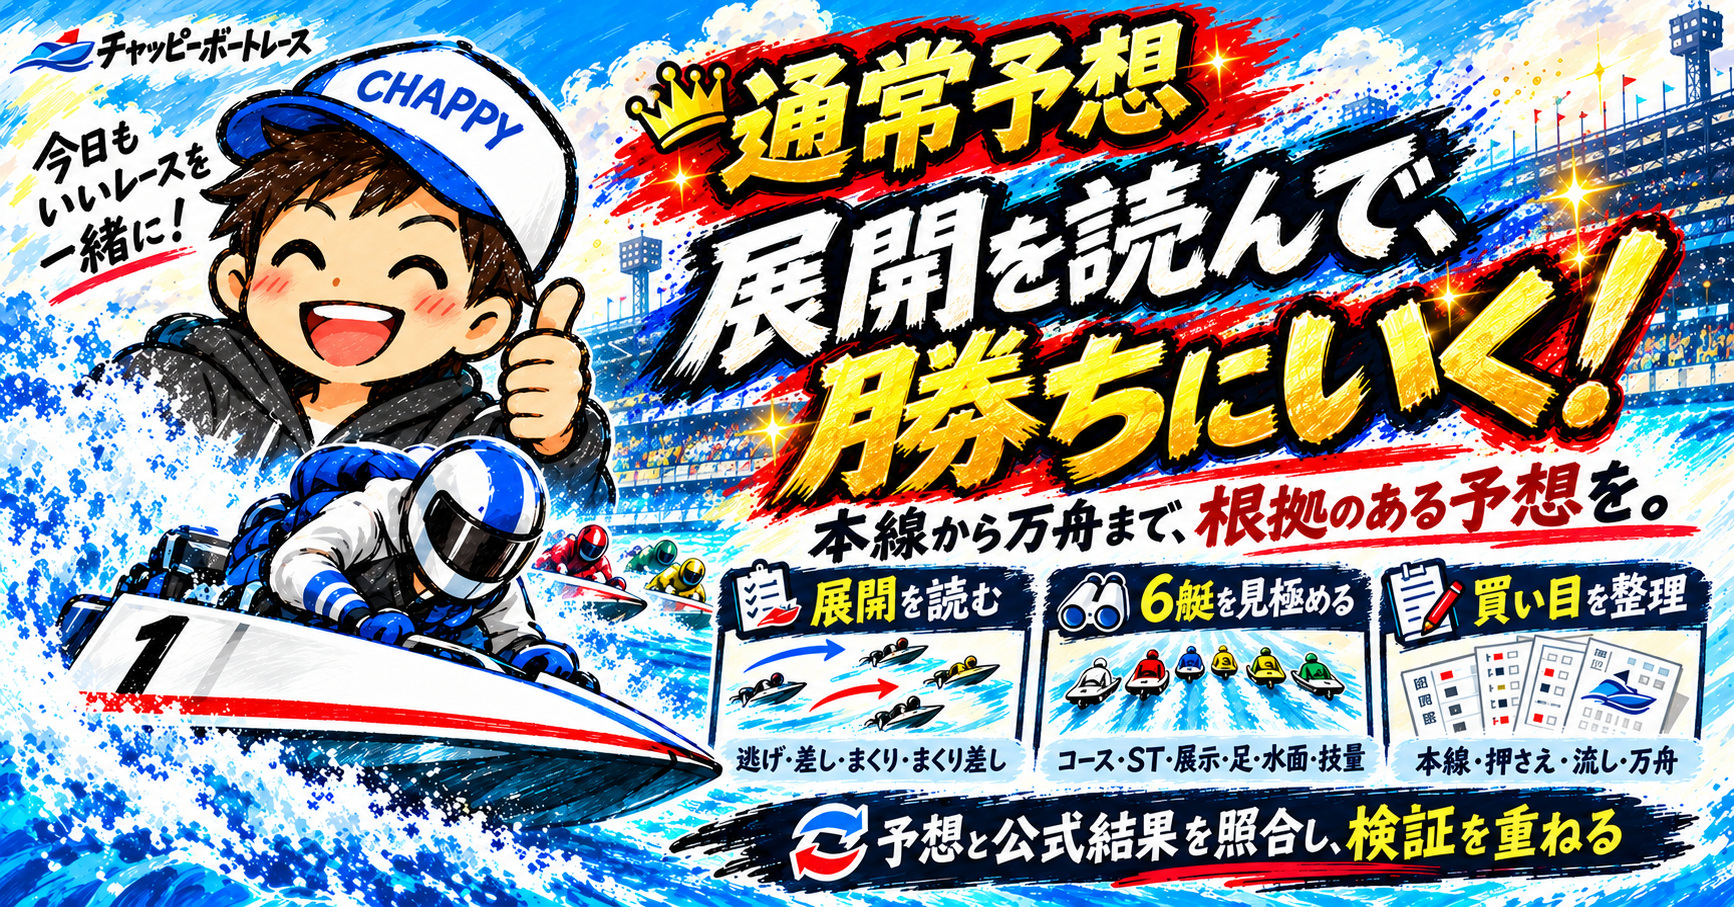
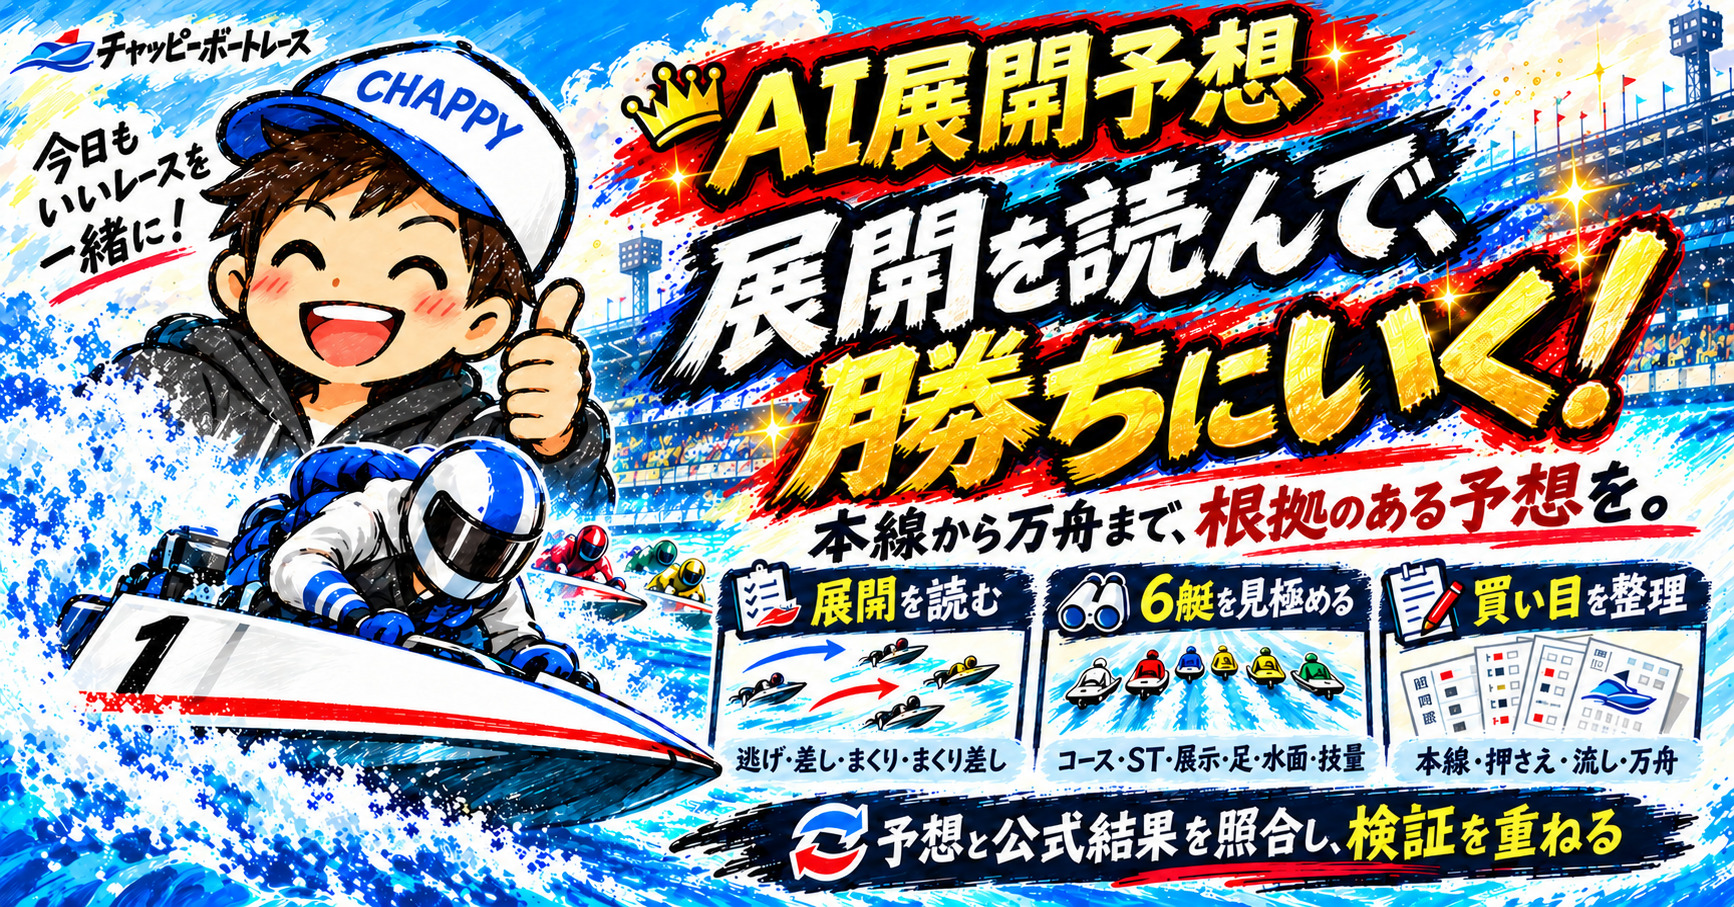
Clarify note previews and deduplicate paid ticket presentation

diff --git a/scripts/note-readable-article.js b/scripts/note-readable-article.js
@@ -1,0 +1,104 @@
+'use strict';
+
+// Presentation only. The immutable original is audited before this adapter.
+// No prediction engine, result, or odds-based selection is used here.
+const NOTICE = '※舟券の購入は自己責任で、無理のない範囲でお楽しみください。';
+const ticketOf = row => typeof row === 'string' ? row : row.ticket;
+const unique = rows => [...new Set((rows || []).map(ticketOf))];
+const valid = t => /^[1-6]-[1-6]-[1-6]$/.test(t) && new Set(t.split('-')).size === 3;
+const mentions = text => [...String(text).normalize('NFKC').matchAll(/(?<![0-9])([1-6]+(?:・[1-6]+)*|全|ALL)\s*[-→－–―]\s*([1-6]+(?:・[1-6]+)*|全|ALL)\s*[-→－–―]\s*([1-6]+(?:・[1-6]+)*|全|ALL)(?![0-9])/gi)];
+const expand = m => {
+  const axes = m.slice(1, 4).map(a => [...new Set(a.replace(/全|ALL/gi, '123456').replaceAll('・', ''))]);
+  return axes[0].flatMap(a => axes[1].flatMap(b => axes[2].map(c => `${a}-${b}-${c}`).filter(valid)));
+};
+const ticketsIn = text => mentions(text).flatMap(expand);
+const sameSet = (a, b) => JSON.stringify([...new Set(a)].sort()) === JSON.stringify([...new Set(b)].sort());
+
+function formations(tickets) {
+  // Group only equal first/second axes; the third axis cannot invent a ticket.
+  const groups = new Map();
+  for (const ticket of tickets) {
+    const [a,b,c] = ticket.split('-'), key = `${a}-${b}`;
+    if (!groups.has(key)) groups.set(key, []);
+    groups.get(key).push(c);
+  }
+  return [...groups].map(([key, thirds]) => `・${key}-${thirds.join('')}`).join('\n');
+}
+
+function readableArticle(article, bundle) {
+  const independent = bundle.version === 'independent-monitor-note-v1';
+  const prediction = bundle.record.prediction;
+  const central = unique(bundle.baselinePracticalTickets);
+  const seen = new Set(central);
+  const groups = [{ heading: '中心の買い目', tickets: central,
+    description: 'まず確認する買い目です。追加候補を買わず、この範囲だけで選べます。' }];
+  const reasons = [];
+  let reference = '';
+  let freeBase = article.freeText;
+  if (independent) {
+    const match = article.paidText.match(/^買い目\n([\s\S]*?)\n計\s+(\d+)点$/m);
+    if (!match || !sameSet(ticketsIn(match[1]), central)) throw new Error('readable_monitor_tickets_mismatch');
+    reasons.push(article.paidText.slice(0, match.index).trim());
+    reference = article.paidText.slice(match.index + match[0].length).trim();
+  } else {
+    reasons.push(String(prediction.raceFlow?.summary || article.rangeSummary || '').trim());
+    const pools = [
+      ['相手を広げるなら', prediction.mainSheet?.tickets, prediction.mainSheet?.reason],
+      ['相手を広げるなら', prediction.mainSheet?.coverTickets, ''],
+      ['別の展開を考えるなら', prediction.mainSheet?.flowTickets, ''],
+      ['高配当を狙うなら', prediction.manshuSheet?.tickets, prediction.manshuSheet?.reason]
+    ];
+    for (const [index, [heading, rows, reason]] of pools.entries()) {
+      const savedReason = String(article.allRangeGroups?.[index]?.reason || reason || rows?.[0]?.scenarioSummary || rows?.[0]?.comment || '').trim();
+      if (savedReason) reasons.push(`${heading}\n${savedReason}`);
+      const tickets = unique(rows).filter(t => !seen.has(t));
+      tickets.forEach(t => seen.add(t));
+      if (!tickets.length) continue;
+      const existing = groups.find(g => g.heading === heading);
+      if (existing) existing.tickets.push(...tickets);
+      else groups.push({ heading, tickets, description: 'ここからは追加候補です。中心の買い目との重複はありません。無料部分の展開説明を確認して、必要な場合だけ追加してください。' });
+    }
+    const practical = article.paidText.match(/^🔥 実戦厳選\n([\s\S]*?)\n計\s+(\d+)点$/m);
+    if (!practical) throw new Error('readable_practical_section_missing');
+    reference = article.paidText.slice(practical.index + practical[0].length).trim();
+    freeBase = freeBase.split('\n\n').filter(p =>
+      !/^展開の焦点：/.test(p) && !/^本命・押さえ・万舟を、/.test(p) && !/^実戦厳選は\d+点です。/.test(p)
+    ).join('\n\n');
+  }
+  // Reference forecasts retain their separate accounting, including overlaps.
+  // They are not recommendations to add the same ticket twice.
+  const referenceTickets = [...new Set(ticketsIn(reference))];
+  const remainingReference = referenceTickets.filter(t => !seen.has(t));
+  if (remainingReference.length) groups.push({ heading: '別会計の参考予想', tickets: remainingReference,
+    description: '保存された参考予想のうち、上の買い目と重複しない分です。中心の買い目の成績とは別集計です。' });
+  const referenceProse = reference.split('\n').filter(line => !mentions(line).length && !/^(計 |内訳|参考.*点|本命とは別会計)/.test(line)).join('\n').trim();
+  if (referenceProse) reasons.push(referenceProse);
+  // A saved rationale can include the full ticket. Its ticket remains in the
+  // paid list; omit that sentence from the preview instead of exposing it.
+  const explanation = [...new Set(reasons.filter(Boolean).map(reason => reason
+    .split(/(?<=[。！？])|\n/).filter(sentence => !mentions(sentence).length).join('\n').trim()).filter(Boolean))].join('\n\n');
+  const total = groups.reduce((n,g) => n + g.tickets.length, 0);
+  const freeText = [freeBase, '展開の考え方', explanation,
+    `有料部分の内容\n中心の買い目 ${central.length}点${total > central.length ? `／追加・参考 ${total - central.length}点` : ''}。重複を除いた全体は${total}点です。`,
+    '中心の買い目から順に掲載します。追加候補はすべて買う前提ではありません。的中報告の対象は中心の買い目です。'
+  ].filter(Boolean).join('\n\n');
+  let cumulative = 0;
+  const paidText = groups.map(group => {
+    cumulative += group.tickets.length;
+    return [group.heading, group.description, formations(group.tickets),
+      `${group === groups[0] ? '中心' : '追加'} ${group.tickets.length}点｜ここまで重複なし${cumulative}点`,
+      `1点100円の場合：この欄${group.tickets.length * 100}円`].join('\n\n');
+  }).join('\n\n');
+  const rendered = ticketsIn(paidText);
+  const expected = [...central, ...(!independent ? unique([
+    ...(prediction.mainSheet?.tickets || []), ...(prediction.mainSheet?.coverTickets || []),
+    ...(prediction.mainSheet?.flowTickets || []), ...(prediction.manshuSheet?.tickets || [])]) : []), ...referenceTickets];
+  if (rendered.some(t => !valid(t)) || new Set(rendered).size !== rendered.length || !sameSet(rendered, expected)) {
+    throw new Error('readable_rendered_tickets_mismatch');
+  }
+  if (mentions(freeText).length) throw new Error('readable_free_ticket_leak');
+  if (freeText.includes(article.paywallMarker) || paidText.includes(article.paywallMarker)) throw new Error('readable_paywall_invalid');
+  const fullText = [freeText, article.paywallMarker, paidText, NOTICE, article.tags.join(' ')].filter(Boolean).join('\n\n');
+  return { ...article, presentationVersion: 'readable-v1', freeText, paidText, fullText };
+}
+module.exports = { readableArticle, ticketsIn };

diff --git a/scripts/note-readable-article.test.js b/scripts/note-readable-article.test.js
@@ -1,0 +1,37 @@
+'use strict';
+const test = require('node:test');
+const assert = require('node:assert/strict');
+const { readableArticle, ticketsIn } = require('./note-readable-article');
+const { fixture } = require('./note-independent-monitor-fixture');
+test('independent original remains immutable, reasons move before the paywall', () => {
+  for (const kind of ['escape', 'manshu']) {
+    const b = fixture(); b.monitor.kind = kind;
+    const before = JSON.stringify(b), a = readableArticle(b.article, b);
+    assert.equal(JSON.stringify(b), before);
+    assert.ok(a.freeText.includes('元の理由を短縮・差し替えしない。'));
+    assert.deepEqual(ticketsIn(a.freeText), []);
+    assert.deepEqual(ticketsIn(a.paidText), ['1-2-3', '1-2-4']);
+    assert.ok(a.freeText.includes('中心の買い目 2点'));
+    assert.equal(a.fullText.split(a.paywallMarker).length, 2);
+  }
+});
+test('overlapping candidate pools and reference tickets are each shown once; none are invented or lost', () => {
+  const b = fixture(); b.version = 'note-draft-bundle-v1';
+  b.record.prediction.mainSheet = { tickets: ['1-2-3', '1-3-2'], coverTickets: ['1-3-2', '1-4-2'], flowTickets: ['2-1-3'] };
+  b.record.prediction.manshuSheet = { tickets: ['2-1-3', '4-1-2'] };
+  b.record.prediction.raceFlow = { summary: '1号艇の逃げを軸に、差しが届く展開も考えます。' };
+  b.article.paidText = '🔥 実戦厳選\n\n・1-2-34\n\n計 2点\n\n本命とは別会計の参考予想\n・4-1-2\n・5-1-2';
+  const before = JSON.stringify(b), a = readableArticle(b.article, b);
+  const shown = ticketsIn(a.paidText);
+  assert.deepEqual(shown, ['1-2-3','1-2-4','1-3-2','1-4-2','2-1-3','4-1-2','5-1-2']);
+  assert.equal(new Set(shown).size, shown.length);
+  assert.equal(JSON.stringify(b), before);
+  assert.ok(a.paidText.indexOf('中心の買い目') < a.paidText.indexOf('相手を広げるなら'));
+  assert.ok(a.freeText.includes('全体は7点'));
+});
+test('a concrete ticket in an explanation cannot leak into the free preview', () => {
+  const b = fixture(); b.article.paidText = '理由 1-2-3\n\n' + b.article.paidText;
+  const a = readableArticle(b.article, b);
+  assert.deepEqual(ticketsIn(a.freeText), []);
+  assert.deepEqual(ticketsIn(a.paidText), ['1-2-3', '1-2-4']);
+});

diff --git a/scripts/note-marketing-content.js b/scripts/note-marketing-content.js
@@ -95,7 +95,7 @@ function indexBody(rows, config, now = Date.now()) {
   // Always show absolute deadlines. A static note cannot claim to know whether
   // a race is still open at the reader's current time between updater runs.
   return [`${date.slice(0,4)}年${Number(date.slice(4,6))}月${Number(date.slice(6,8))}日の予想一覧`,
-    `通常予想・イン逃げ・万舟を分け、各区分の締切順にまとめています。イン逃げと万舟は独立した狙い目監視の原稿です。時刻は日本時間です。新規公開の記事は各${NOTE_PRICE_YEN}円で試行中です。過去の記事を含め、購入価格は各記事ページをご確認ください。`,
+    `AI展開予想・イン逃げ・万舟を分け、各区分の締切順にまとめています。イン逃げと万舟は独立した狙い目監視の原稿です。時刻は日本時間です。新規公開の記事は各${NOTE_PRICE_YEN}円で試行中です。過去の記事を含め、購入価格は各記事ページをご確認ください。`,
     '日付と締切をご確認ください。締切を過ぎた記事は振り返り用の記録です。',
     `本日の公開記事の成績\n${dailySummary(current, date)}\n集計は事前公開した記事の実戦厳選買い目だけが対象です。種類ごとに集計し、結果待ち・不成立・確認中は判定済み件数に含めません。払戻は公式の100円あたりの金額で、実際の購入額・利益ではありません。`,
     ...Object.entries(SERIES).map(([key, series]) => {

diff --git a/scripts/note-article-series.test.js b/scripts/note-article-series.test.js
@@ -46,8 +46,10 @@ test('intake preserves complete independent original and has one immutable path'
     assert.equal(saved.changed, true);
     assert.equal(saveIndependentMonitorNote(b, { rootDir, now }).changed, false);
     const p = publicationPayload(saved.sourcePath, rootDir, now);
-    assert.equal(p.title, b.article.title); assert.equal(p.body, b.article.fullText);
-    assert.equal(p.freeText, b.article.freeText); assert.equal(p.paidText, b.article.paidText);
+    assert.equal(p.title, b.article.title);
+    assert.ok(p.freeText.includes('元の理由を短縮・差し替えしない。'));
+    assert.ok(p.paidText.startsWith('中心の買い目'));
+    assert.deepEqual(require('./note-readable-article').ticketsIn(p.paidText), ['1-2-3', '1-2-4']);
     assert.equal(JSON.stringify(b), before);
   }
 }));
@@ -138,7 +140,7 @@ test('index verifies source kind, lists three sections, and rejects duplicate ar
     return receiptRow(receipt, bytes, now);
   });
   const body = indexBody(rows, config, now);
-  for (const [i, label] of ['通常予想', 'イン逃げ', '万舟'].entries()) {
+  for (const [i, label] of ['AI展開予想', 'イン逃げ', '万舟'].entries()) {
     const section = body.split(label + '\n')[1].split('\n\n')[0];
     assert.ok(section.includes('17:29｜丸亀6R\n公開 16:00｜実戦厳選' + rows[i].ticketCount + '点\n公開時価格 300円\n公式結果との照合待ち\n' + rows[i].url));
     assert.ok(section.includes(rows[i].resultUrl));

diff --git a/scripts/note-article-series.js b/scripts/note-article-series.js
@@ -2,7 +2,7 @@
 
 // Source identity, never inferred from a normal AI ticket or headline.
 const SERIES = Object.freeze({
-  normal: { label: '通常予想', brand: 'チャッピーボートレースAI', color: '#136b86' },
+  normal: { label: 'AI展開予想', brand: 'チャッピーボートレースAI', color: '#136b86' },
   escape: { label: 'イン逃げ', brand: 'チャッピー 狙い目監視', color: '#167665' },
   manshu: { label: '万舟', brand: 'チャッピー 狙い目監視', color: '#aa5732' }
 });
@@ -26,7 +26,7 @@ function publicationKey(raceKey, series = 'normal') {
 function seriesTitle(article, series) {
   requireSeries(series);
   // Monitoring originals already identify their kind. Preserve their wording.
-  if (series !== 'normal' || article.title.startsWith('【通常予想】')) return article;
-  return { ...article, title: `【通常予想】${article.title}` };
+  if (series !== 'normal') return article;
+  return { ...article, title: `【AI展開予想】${article.title.replace(/^【(?:通常予想|AI展開予想)】/, '')}` };
 }
 module.exports = { SERIES, requireSeries, seriesOfBundle, publicationKey, seriesTitle };

diff --git a/scripts/note-independent-monitor-source.test.js b/scripts/note-independent-monitor-source.test.js
@@ -29,8 +29,11 @@ try {
   });
   test('actual publication adapter preserves title, reasons, formation and paywall', () => {
     const b = fixture(), p = publicationPayload(save(b), root, NOW);
-    assert.equal(p.title, b.article.title); assert.equal(p.freeText, b.article.freeText);
-    assert.equal(p.paidText, b.article.paidText); assert.equal(p.body, b.article.fullText);
+    assert.equal(p.title, b.article.title);
+    assert.ok(p.freeText.includes('元の理由を短縮・差し替えしない。'));
+    assert.ok(p.paidText.startsWith('中心の買い目'));
+    assert.ok(p.paidText.includes('・1-2-34'));
+    assert.deepEqual(b.article, b.monitor.article);
     assert.equal(p.price, 200); assert.equal(p.practicalTicketCount, 2);
     assert.deepEqual(verifyPublicationSource(p, root, NOW), p);
   });

diff --git a/scripts/note-marketing-reports.test.js b/scripts/note-marketing-reports.test.js
@@ -79,7 +79,7 @@ test('social drafts are dated, bounded, stable, series-separated and never marke
   const drafts=distributionDrafts(rows,config,'20260929');
   assert.equal(drafts.deliveryEnabled,false); assert.equal(drafts.x.status,'awaiting_connection');
   assert.equal(drafts.line.status,'awaiting_connection');
-  assert.equal(drafts.x.items.length,1); assert(drafts.x.items[0].text.includes('9/29 通常予想'));
+  assert.equal(drafts.x.items.length,1); assert(drafts.x.items[0].text.includes('9/29 AI展開予想'));
   assert(drafts.x.items[0].text.includes('公式払戻（100円あたり）1,230円'));
   assert(drafts.x.items[0].text.includes(f.row.url)); assert(drafts.x.items[0].text.includes(config.index.url));
   // Conservative upper bound: all non-ASCII codepoints count as two; each URL as 23.

diff --git a/scripts/note-publication-source.js b/scripts/note-publication-source.js
@@ -44,7 +44,9 @@ function sourceArticle(sourcePath, rootDir = process.cwd(), now = Date.now()) {
     error.issueCodes = [...new Set(audit.issues.map(issue => issue.code))];
     throw error;
   }
-  return { bundle, article, articleSeries, sha256: match[4] };
+  // Audit the immutable original first, then verify the approved public copy.
+  const readable = require('./note-readable-article').readableArticle(article, bundle);
+  return { bundle, article: readable, articleSeries, sha256: match[4] };
 }
 
 function publicationPayload(sourcePath, rootDir = process.cwd(), now = Date.now()) {

diff --git a/docs/note-automation.md b/docs/note-automation.md
@@ -302,3 +302,14 @@ node scripts/check-charter.js
 ## 2026-10-04 承認済み200円試行
 
 新規公開する通常AI・独立本命（escape）・万舟の3種類は各200円で試行する。過去の300円固定指定より優先。価格正本は `scripts/note-pricing.js`。handoff・投稿直前ゲート・匿名公開検証は200円を必須とし、過去の300円receiptは保持して集計・予約照合できるようにする。公開済み記事の価格や購入履歴を変更しない。案内では新規200円と過去記事の公開時価格を区別する。試行開始証拠は最初の200円公開成功であり、main反映だけでは開始済みとしない。継続購入の評価は `docs/note-price-trial.md` を参照し、同日の複数購入と別日の再購入を分ける。販売データ取得・自動集計は未確認。
+
+
+## 2026-10-04 無料の展開説明・有料の重複なし買い目
+
+最新のユーザー承認により、新規公開用コピーは `scripts/note-readable-article.js` の readable-v1 を使用。通常の公開名称は「AI展開予想」。内部 articleSeries=normal、原本・既存公開記事・予約キー・実戦厳選の定義は維持する。
+
+- 元原稿の従来監査に合格してから表示を整える。独立監視の元原文照合を先に行い、通常AI生成器を通さない。原本は書き換えず、保存済みの説明を無料部分へ移す。具体的な3連単を含む説明文は無料部分から除き、その買い目は有料欄に保持する。
+- 有料は「中心の買い目」（元の実戦厳選）→「相手を広げるなら」→「別の展開を考えるなら」→「高配当を狙うなら」→独立参考。空欄は省略。全保存プールと参考の和集合を保持し、表示上の同一券は一度だけ出す。参考の元台帳は別集計のまま。
+- 表示集合・重複・有料境界・無料漏れを追加検査し、中心の原本順序とオッズは変更しない。各欄の実点数、累計点数、1点100円の場合の金額を示す。中心1〜7点の公開ゲート、200円、展示、実時計の締切120秒超、原子的予約、匿名公開検証を維持する。
+- 的中報告は中心の保存買い目だけで判定し、追加候補・参考の的中と混ぜない。noteは既存全成績一覧、Xは既存Buffer経路を使用。2026-10-03津11R・12RはBuffer sent確認済み、津11Rは2026-10-04にX公開画面でも確認。200円初回は2026-10-04下関6R 17:36 JST、続く7Rも公開receipt確認済み。継続購入の自動取得は未接続。
+- normal表紙は同じデザインの「AI展開予想」版へ更新。既存記事の本文・価格・買い目は書き換えない。過去記事の表紙差し替えと新規投稿用素材の更新は別に確認する。

diff --git a/AGENTS.md b/AGENTS.md
@@ -34,3 +34,14 @@
 ## 2026-10-04 承認済み200円試行
 
 新規公開する通常AI・独立本命（escape）・万舟の3種類は各200円で試行する。過去の300円固定指定より優先。価格正本は `scripts/note-pricing.js`。handoff・投稿直前ゲート・匿名公開検証は200円を必須とし、過去の300円receiptは保持して集計・予約照合できるようにする。公開済み記事の価格や購入履歴を変更しない。案内では新規200円と過去記事の公開時価格を区別する。試行開始証拠は最初の200円公開成功であり、main反映だけでは開始済みとしない。継続購入の評価は `docs/note-price-trial.md` を参照し、同日の複数購入と別日の再購入を分ける。販売データ取得・自動集計は未確認。
+
+
+## 2026-10-04 無料の展開説明・有料の重複なし買い目
+
+最新のユーザー承認により、新規公開用コピーは `scripts/note-readable-article.js` の readable-v1 を使用。通常の公開名称は「AI展開予想」。内部 articleSeries=normal、原本・既存公開記事・予約キー・実戦厳選の定義は維持する。
+
+- 元原稿の従来監査に合格してから表示を整える。独立監視の元原文照合を先に行い、通常AI生成器を通さない。原本は書き換えず、保存済みの説明を無料部分へ移す。具体的な3連単を含む説明文は無料部分から除き、その買い目は有料欄に保持する。
+- 有料は「中心の買い目」（元の実戦厳選）→「相手を広げるなら」→「別の展開を考えるなら」→「高配当を狙うなら」→独立参考。空欄は省略。全保存プールと参考の和集合を保持し、表示上の同一券は一度だけ出す。参考の元台帳は別集計のまま。
+- 表示集合・重複・有料境界・無料漏れを追加検査し、中心の原本順序とオッズは変更しない。各欄の実点数、累計点数、1点100円の場合の金額を示す。中心1〜7点の公開ゲート、200円、展示、実時計の締切120秒超、原子的予約、匿名公開検証を維持する。
+- 的中報告は中心の保存買い目だけで判定し、追加候補・参考の的中と混ぜない。noteは既存全成績一覧、Xは既存Buffer経路を使用。2026-10-03津11R・12RはBuffer sent確認済み、津11Rは2026-10-04にX公開画面でも確認。200円初回は2026-10-04下関6R 17:36 JST、続く7Rも公開receipt確認済み。継続購入の自動取得は未接続。
+- normal表紙は同じデザインの「AI展開予想」版へ更新。既存記事の本文・価格・買い目は書き換えない。過去記事の表紙差し替えと新規投稿用素材の更新は別に確認する。
